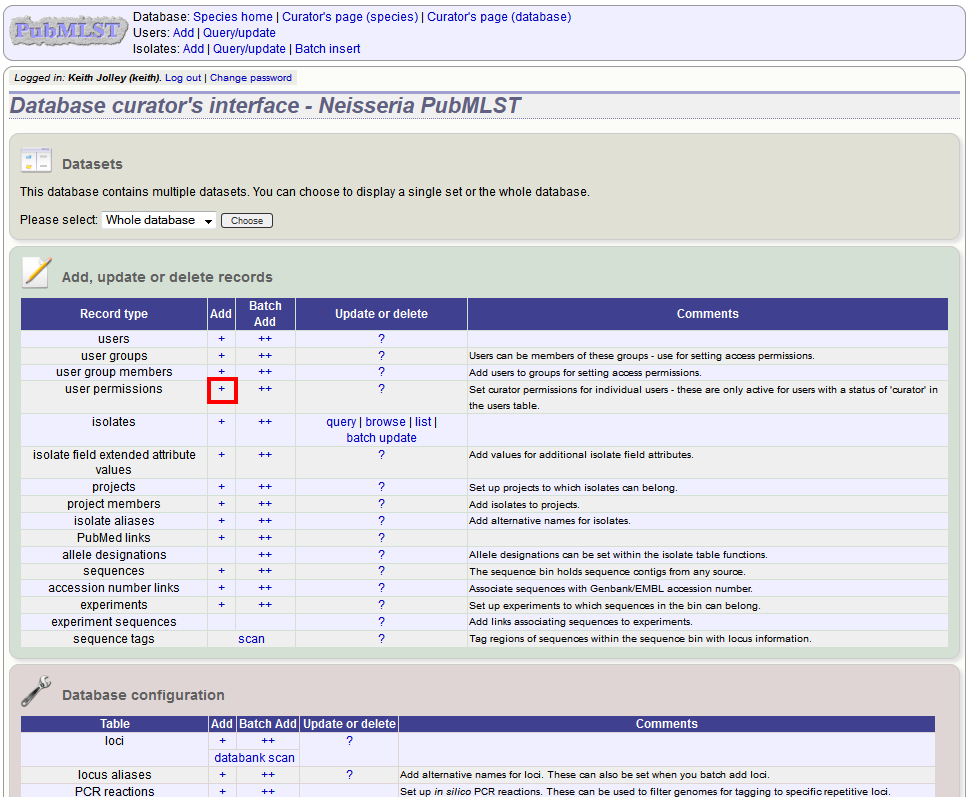
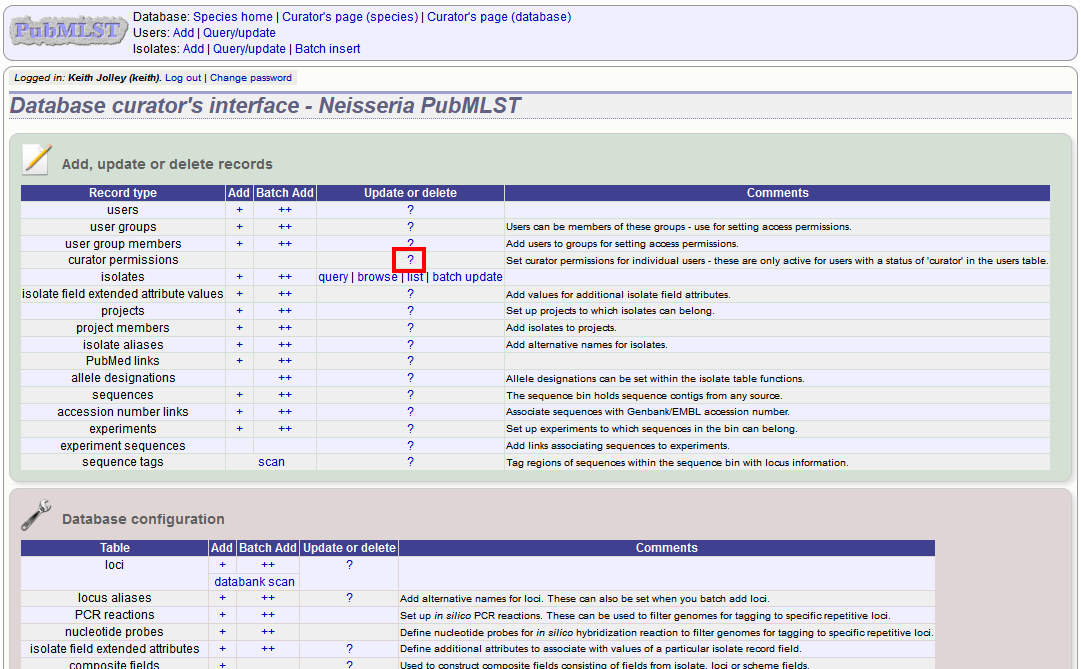
Update curator permission setting.

diff --git a/administration.rst b/administration.rst
@@ -49,21 +49,19 @@ Individual permissions can be set for each curator:
 * designate_alleles - allowed to manually designate allele numbers for isolate records.
 * modify_profiles - allowed to add or modify scheme profiles (only used in a sequence definitions database).
 
-Permissions can be set by clicking the '+' button next to 'user permissions' on the curator's interface: 
+Permissions can be set by clicking the '?' button next to 'curator permissions' on the curator's interface: 
 
 .. image:: /images/administration/add_user_permissions.png
 
-Set specific permissions and then click 'Submit'.
+Choose one or more curators from the list (hold down Ctrl to select multiple
+values). click 'Select'.
    
 .. image:: /images/administration/add_user_permissions2.png
 
-If permissions have already been set for a user, click the 'Update or delete' link on the curator's page instead.
+Click the appropriate checkboxes to modify permissions.  There are also 
+'All/None' checkboxes to facilitate quicker selection of options.  Click 'Update'.
 
 .. image:: /images/administration/add_user_permissions3.png
-
-then search for the user by entering specific criteria, or simply press 'Submit' to display all users.  Update a specific user by clicking on the 'Update' link next to their name.
-
-.. image:: /images/administration/add_user_permissions4.png
 
 .. index::
    single: permissions; locus curation
